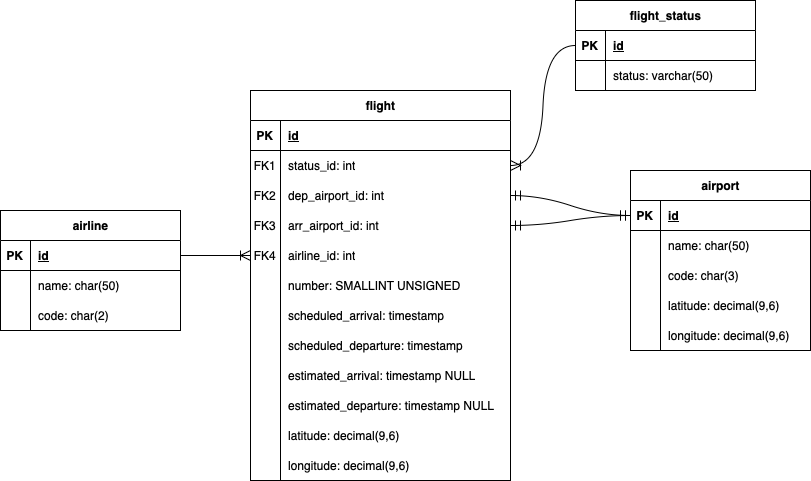
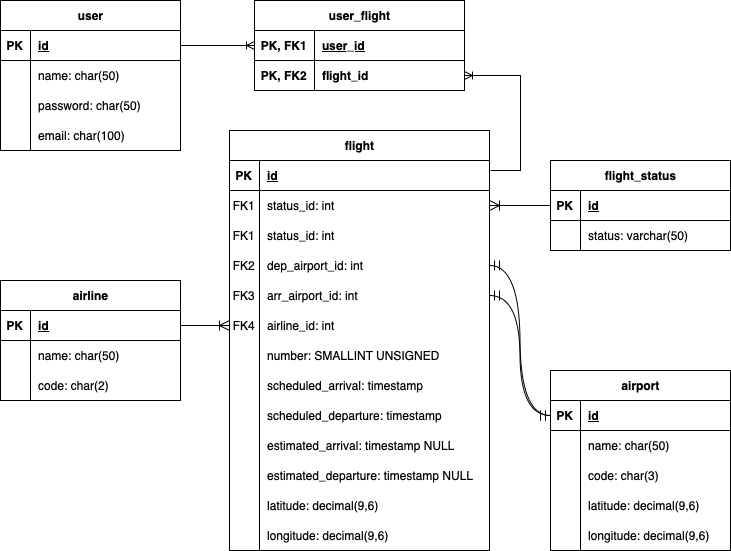
updated diagrams, added edit and delete to flightDao & service files

diff --git a/src/main/java/com/mthree/flighttracker/service/FlightServiceInterface.java b/src/main/java/com/mthree/flighttracker/service/FlightServiceInterface.java
@@ -65,4 +65,20 @@ public interface FlightServiceInterface {
      * @return The flight if found, otherwise null
      */
     Flight getFlightByNumber(short number, Airline airline);
+
+    /**
+     * Updates an existing flight in the system
+     *
+     * @param flight The flight object with updated information
+     * @return The updated flight
+     */
+    Flight updateFlight(Flight flight);
+
+    /**
+     * Removes a flight from the system
+     *
+     * @param flight The flight to remove
+     */
+    void deleteFlight(Flight flight);
+
 }

diff --git a/src/main/java/com/mthree/flighttracker/service/FlightServiceImpl.java b/src/main/java/com/mthree/flighttracker/service/FlightServiceImpl.java
@@ -103,4 +103,18 @@ public class FlightServiceImpl implements FlightServiceInterface {
 
         return flight;
     }
+
+    @Override
+    public Flight updateFlight(Flight flight) {
+        // Add any validation logic here if needed
+        return flightDao.editFlight(flight);
+        // Or directly: return flightDao.save(flight);
+    }
+
+    @Override
+    public void deleteFlight(Flight flight) {
+        flightDao.removeFlight(flight);
+        // Or directly: flightDao.delete(flight);
+    }
+
 }

diff --git a/src/main/java/com/mthree/flighttracker/dao/FlightDao.java b/src/main/java/com/mthree/flighttracker/dao/FlightDao.java
@@ -35,4 +35,10 @@ public interface FlightDao extends JpaRepository<Flight, Integer> {
 
     @Query("SELECT f FROM Flight f WHERE f.status = ?1")
     List<Flight> getFlightsByStatus(FlightStatus status);
+
+    // no need to explicitly call `save(flight)` without default
+    Flight editFlight(Flight flight);
+
+    // no need to explicitly call `delete(flight)` without default
+    void removeFlight(Flight flight);
 }
